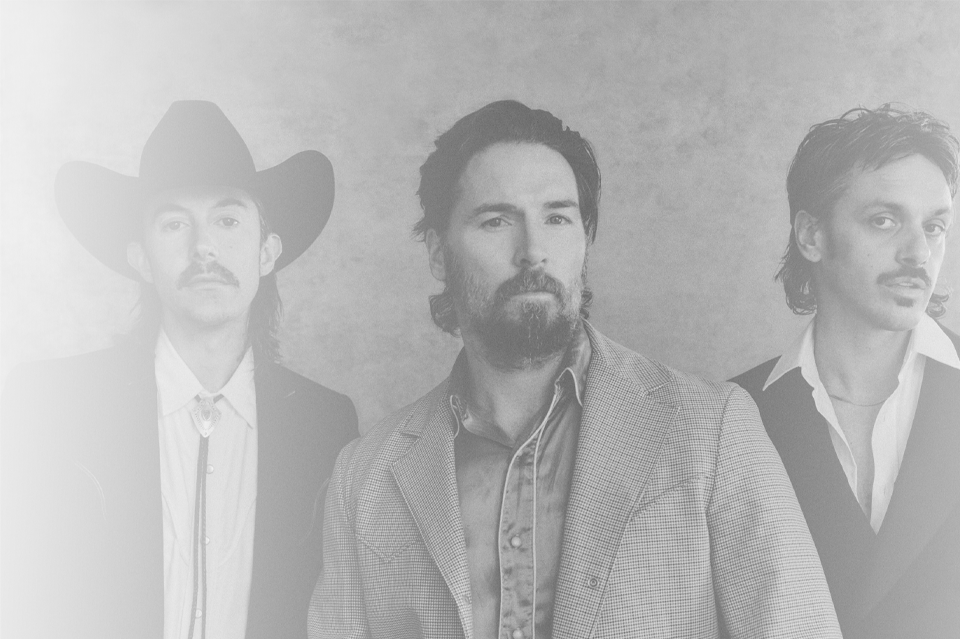
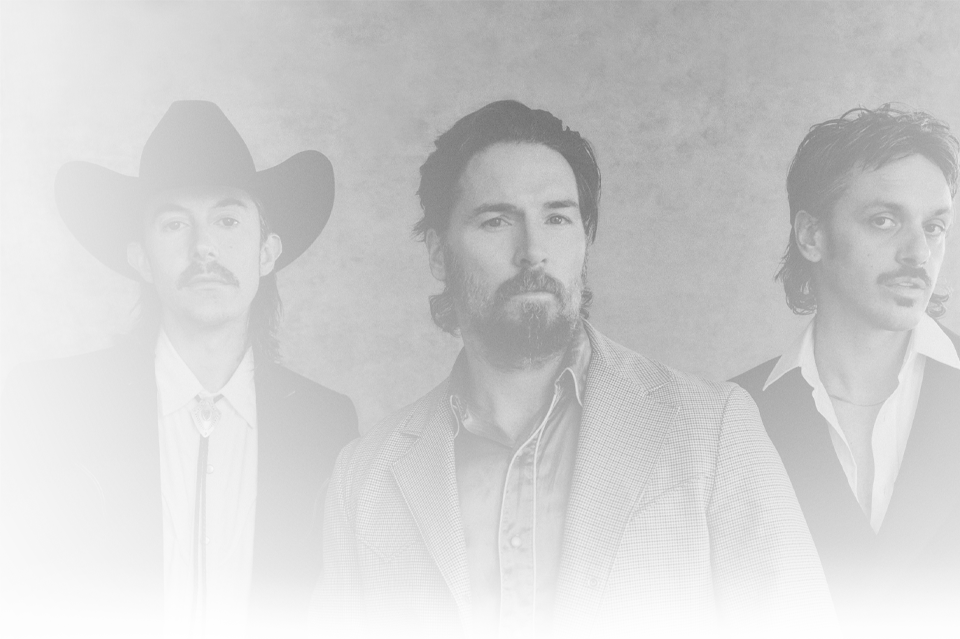
Updates

diff --git a/image-style.css b/image-style.css
@@ -1,60 +1,135 @@
 body {
  	background-image: url(Midland.png);
  	background-repeat: no-repeat;
- 	background-size: cover;
+ 	background-size: 100%;
  	background-attachment: fixed;
  	background-color: #0C4591;
- 	\
+ 	max-width: 1000px;
+ 	
  }
 
-.container1 {
 
-background-color: indianred;
-
-
-}
 
 
 .container {
 	margin-left: 25px;
 	font-family: Verdana;
+	display: flex;
+	justify-content: left;
+	text-align: left;
+	flex-direction: column;
+	line-height: 75px;
+
 
 
 
 }
 
-.section-one {
+
+.container-section-one {
 	color: lightcyan;
 	font-size: 75px;
-	line-height: 10px;
-	display: flex;
-	justify-content: left;
-	text-align: left;
-	hieght: 200px;
+	height: 175px;
 	
 
 
 }
 
-
-.section-two {
-	font-size: 30px;
-	line-height: 75px;
-	display: flex;
-	justify-content: left;
-	text-align: left;
-	overflow: scroll;
-	
+.container-section-four {
+	font-size: 50px;
+	width: 500px;
+	color: skyblue;
+	line-height: 200px;
+	filter: opacity(100%);
 	
 
 }
+a {
+	color: skyblue;
+	text-decoration: none;
+}
 
-.section-three {
+a:hover { 
 	color: lightcyan;
-	overflow: scroll;
+	text-decoration: underline;
+ }
+
+.container-section-two {
+	font-size: 30px;
+	
+
+	
+
+}
+
+.container-section-three {
+	color: lightcyan;
 	font-size: 15px;
-
-
+	margin-bottom: 75px;
+	line-height: 30px;
+	
 
 
 }
+
+@media screen and (max-width: 1035px) {
+
+	.container {
+		line-height: 50px;
+	}
+
+	.container-section-one {
+		font-size: 35px;
+		height: 50px;
+
+
+	}
+	
+	.container-section-four {
+		font-size: 25px
+
+	}
+
+	.container-section-two {
+		font-size: 20px
+
+	}
+
+
+}
+
+
+
+
+
+
+@media screen and (max-width: 420px) {
+
+	.container {
+		line-height: 30px;
+	}
+
+	.container-section-one {
+		font-size: 30px;
+		height: 5px;
+
+
+
+	}
+	
+	.container-section-four {
+		font-size: 25px
+
+	}
+
+	.container-section-two {
+		font-size: 15px
+
+	}
+
+
+}
+
+
+
+

diff --git a/index.html b/index.html
@@ -5,24 +5,24 @@
     <head>
         <meta charset="UTF-8">
         <meta name="viewport" content="width=device-width,initial-scale=1">
-        <title>Title</title>
+        <title>Barely Blue</title>
         <link rel="stylesheet" href="image-style.css">
     </head>
     <body>
 
 
-        <div class="container section-one">
+        <div class="container-section-one">
             <h2>Barely Blue</h2>
             </div>
 
 
-        <div class="container section-two">
+             <div class="container-section-four">
+            <a href="https://wleto12.github.io/Midland//">By: Midland</a>
+        </div>
+        <div class="container-section-two">
             <p> 
-                <element style="font-size: 50px; color: skyblue;">By: Midland</element>
-                <br>
-                <br>
-                <br>
-
+    
+               
                 <element style="color: lightcyan;">I'm the talk of the town  </element> <br>
                 <element style="color: skyblue;">I've been makin' the rounds</element> <br>
                 <element style="color: lightcyan;">And the rounds have been makin' me </element><br> 
@@ -86,8 +86,8 @@
                 </p>
             </div>
 
-        <div class="container section-three">
-                <p> Written By: Cameron Duddy (Right), Jess Carson (Left), Josh Osborne (Not Pictured), Mark Wystrach (Center), Matt Dragstrem (Not Pictured) </p>
+        <div class="container-section-three">
+                <p>Written By: Cameron Duddy (Right), Jess Carson (Left), Josh Osborne (Not Pictured), Mark Wystrach (Center), Matt Dragstrem (Not Pictured) </p>
         </div>
 
 
